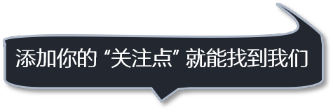
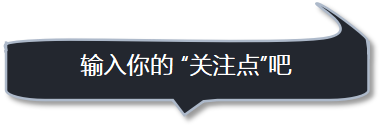
引导页的图片修改

diff --git a/xunta-web/src/main/webapp/client_code/main_page/topics_page_web.js b/xunta-web/src/main/webapp/client_code/main_page/topics_page_web.js
@@ -3333,8 +3333,12 @@ function clickMainPage(bgObj){
 	var guideMUBubble=$("#guideMUBubble");
 	guideMUBubble.attr('src','../image/guideAddtagBubble.png'); 
 	
-	//出现引导页的添加标签的样式
-	guideAddTag();
+	document.getElementById("guideMUBubble").onload = function () {
+		guideMUBubble.css('width','65%'); 
+        console.log("添加标签的气泡加载完毕");
+        //出现引导页的添加标签的样式
+    	guideAddTag();
+    }
 }
 //出现引导页的添加标签的样式
 function guideAddTag() {
@@ -3373,7 +3377,7 @@ function guideAddTag() {
 	var guideMUBubbleTop=guideMUBubble.offset().top;
 	var guideMUBubbleHeight=guideMUBubble.height();
 	var htmlObj=$("#htmlObj");
-	var htmlObjTop=guideMUBubbleTop+guideMUBubbleHeight+guideMUBubbleHeight/5;
+	var htmlObjTop=guideMUBubbleTop+guideMUBubbleHeight/*+guideMUBubbleHeight/10*/;
 	htmlObj.css("top",htmlObjTop);
 	
 	//将guideAddTagText绑定点击事件

diff --git a/xunta-web/src/main/webapp/client_code/main_page/main_page.html b/xunta-web/src/main/webapp/client_code/main_page/main_page.html
@@ -171,7 +171,7 @@
         </table>
     </div>
     <!-- 引导页：这是匹配人头像引导话 -->
-    <img src="../image/guideMUBubble.png" id="guideMUBubble" onerror="javascript:this.src='http://42.121.136.225:8888/user-pic2.jpg'" style="z-index:202;width: 65%;display: inline-block;position: absolute;right:0px;display:none;">
+    <img src="../image/guideMUBubble.png" id="guideMUBubble" onerror="javascript:this.src='http://42.121.136.225:8888/user-pic2.jpg'" style="z-index:202;width: 60%;display: inline-block;position: absolute;right:0px;display:none;">
     <!-- 关于公司信息 -->
     <div class="footer" style="position: absolute;top: 97%;color:#666666;font-size: 12px;text-align: center;width: 100%;">
 			<a style="margin-right: 10px;text-decoration: underline;cursor: pointer;" onclick="enterProfilePage()">关于我们</a>
